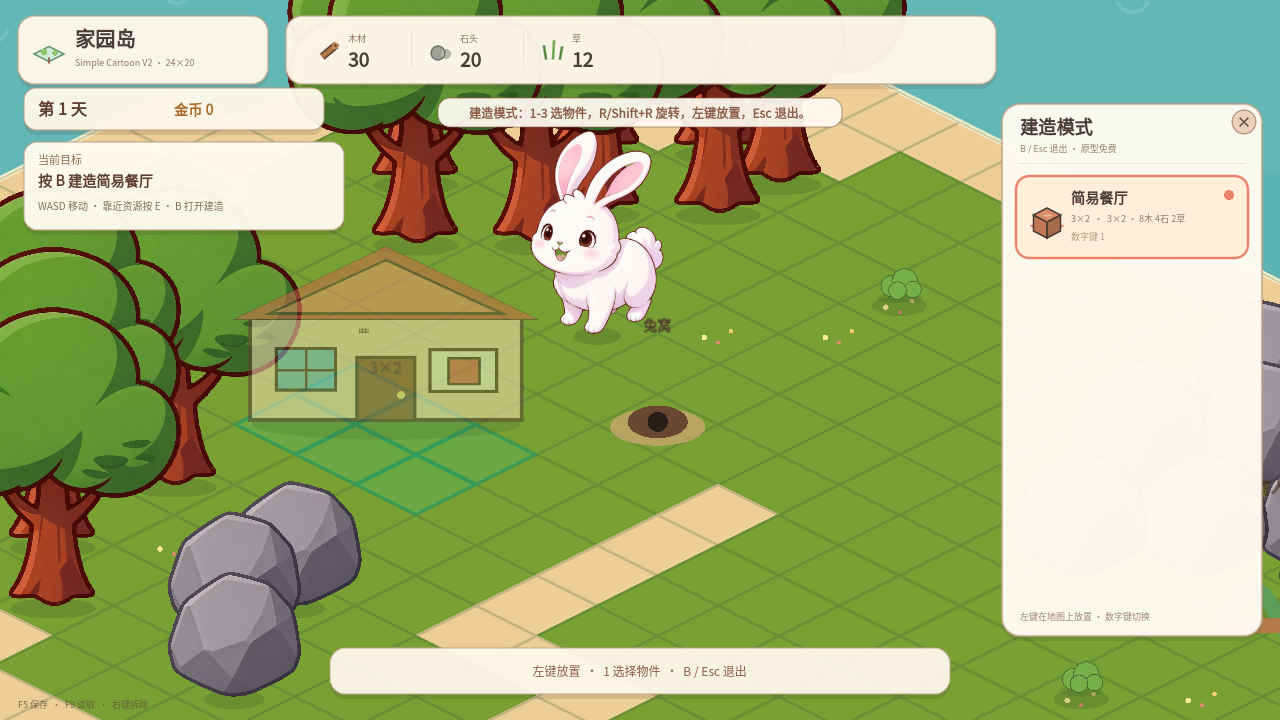
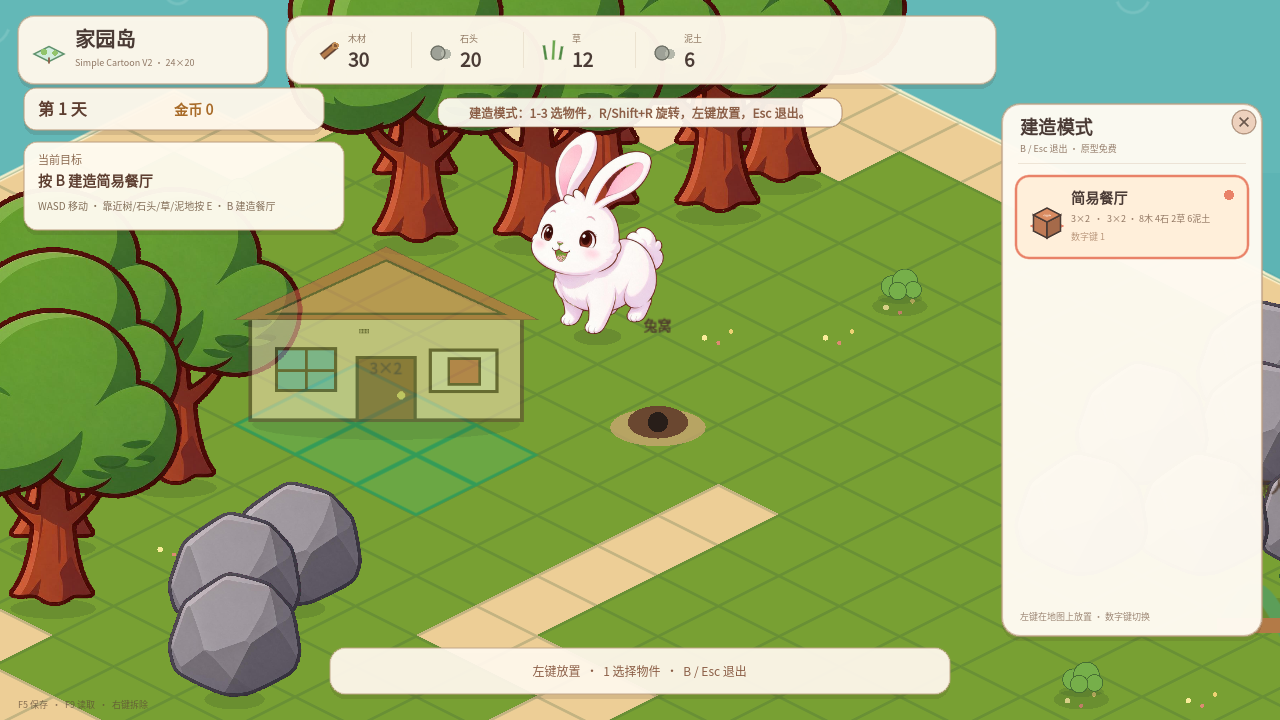
feat: mud-based day one and restaurant interior

diff --git a/tutorial/README.md b/tutorial/README.md
@@ -25,7 +25,8 @@ F:\humger\启动初始岛.bat
 
 ## 已实现
 
-- 第 1 天：采集 → 蛇商免费胡萝卜 → 3×2 餐厅 → 做胡萝卜浓汤 → 交付 → 18 金币 → 睡觉
+- 第 1 天：采集 8木/4石/2草/6泥土 → 3×2 餐厅 → 按 E 进入餐厅内部 → 获得 20 金币启动资金 → 回兔窝睡觉
+- 餐厅内部是独立场景：`RestaurantInterior.tscn`，按 E/Esc 返回岛屿
 - 第 2 天：蛇商购买胡萝卜 → 兔子顾客 → 做汤/交付 → 24 金币 → 兔肉
 - 第 3 天：猫猫顾客 → 蛇商介绍阿水 → 分配服务员 → 玩家做菜放取餐台 → 阿水送餐 → 30 金币
 - 第 4 天：大胡萝卜条件事件（捕捉两只胡萝卜顾客后触发）→ 10 泥土 + 6 水；造船材料
@@ -45,5 +46,5 @@ F:\humger\启动初始岛.bat
 
 测试：
 
-- Tutorial Logic：`28/28`（含 24×20 地图布局检查）
+- Tutorial Logic：`24/24`（含 24×20 地图布局与第 1 天泥土流程）
 - V2 风格测试：`19/19`

diff --git a/README.md b/README.md
@@ -40,7 +40,8 @@ res://tutorial/TutorialLevel.tscn
 
 - 24×20 初始岛，V2 草地、树木、石头、兔子素材
 - 参考布局的水域、沙滩、草地、道路、花草、兔屋/餐厅/码头区域
-- 五天新手关：采集 → 建餐厅 → 蛇商 → 做菜/交付 → 兔子/猫猫顾客 → 员工送餐 → 大胡萝卜 → 造船启航
+- 五天新手关：第 1 天采集泥土/材料 → 建餐厅 → 进入餐厅内部；之后是顾客、员工送餐、大胡萝卜和造船
+- 餐厅是独立室内场景：`res://tutorial/RestaurantInterior.tscn`（E 进入/返回）
 - 网格建造、搬动、旋转、拆除、绿红预览
 - 自动保存/启动恢复
 
@@ -77,7 +78,7 @@ $godot = "F:\humger\tools\godot\Godot_v4.7.2-stable_win64_console.exe"
 
 当前结果：
 
-- 新手关逻辑：**28 / 28**
+- 新手关逻辑：**24 / 24**
 - V2 风格测试：**19 / 19**
 
 ## 说明

diff --git a/docs/tutorial_level_design_v1.md b/docs/tutorial_level_design_v1.md
@@ -3,6 +3,7 @@
 > 依据：Notion《🎮 汉堡物语 · 新手关与员工系统设计》
 > 性质：**落地设计文档**。目标是让后续可以直接按场景、状态机、数据和验收项开工。
 > 地图：当前实现已使用 **24×20 V2 初始岛**（`tutorial/TutorialLevel.tscn`）；本文原 16×12 区域图为设计初稿，正式地图以 24×20 配置为准。
+> 2026-11-05 调整：第 1 天改为**采集泥土建造餐厅并进入餐厅内部**，不再要求胡萝卜；餐厅内部使用独立 `RestaurantInterior.tscn`。
 
 ---
 

diff --git a/home_island/README.md b/home_island/README.md
@@ -23,7 +23,7 @@ F:\humger\tools\godot\Godot_v4.7.2-stable_win64_console.exe `
   res://tutorial/tests/TutorialLogicTest.tscn
 ```
 
-结果：**28 / 28**。
+结果：**24 / 24**。
 
 V2 风格测试场景：
 
